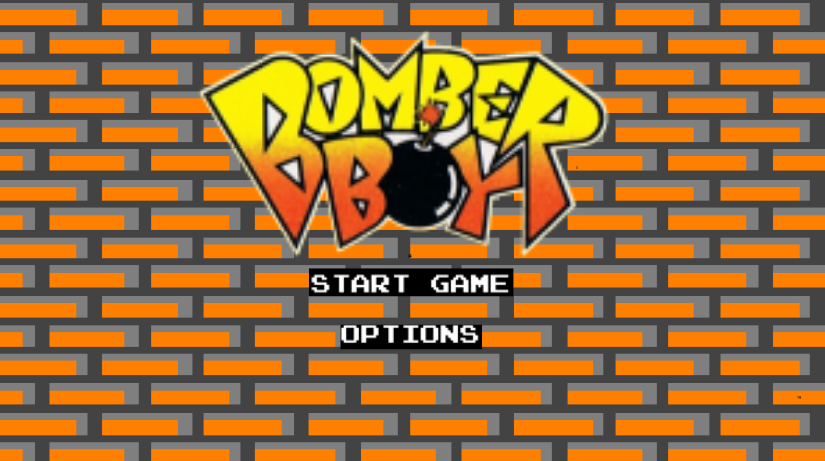
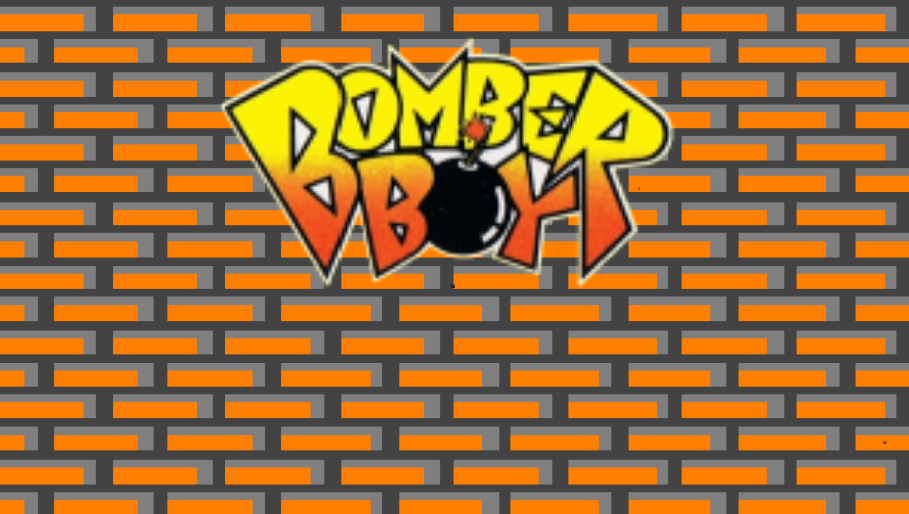
restart adicionado

diff --git a/PPO/jogo.js b/PPO/jogo.js
@@ -3,7 +3,7 @@ class jogo extends Phaser.Scene {
     constructor() {
         super("jogo");
     this.cursor;this.player;this.player1;this.player2;this.blocos;this.e=0;this.explosoes;this.bombas;this.anim;
-    this.caixas;this.PUV;this.PUB;this.PUE;this.cursor2={w:0,a:0,s:0,d:0,b:0};this.pontos1=0;this.pontos2=0;
+    this.caixas;this.PUV;this.PUB;this.PUE;this.pause;this.cursor2={w:0,a:0,s:0,d:0,b:0};this.pontos1=0;this.pontos2=0;
     this.mapa = new Array(13);
     for(var i=0;i<13;i++){
         this.mapa[i]= new Array(19);
@@ -19,6 +19,9 @@ class jogo extends Phaser.Scene {
     
 
     preload(){
+
+        game.scene.pause()
+
         this.load.image('tela','img/tela.jpg');
         this.load.spritesheet('personagem','img/dude.png',{
             frameWidth:32, frameHeight:42
@@ -38,6 +41,13 @@ class jogo extends Phaser.Scene {
         this.load.image('PUBomba','img/PUBomba.png');
         this.load.image('P1W','img/Player1 Wins.png');
         this.load.image('P2W','img/Player2 Wins.png');
+
+        this.load.path = './fontes/';
+        this.load.image('gamma', 'font.png');
+        this.load.json('gamma_json', 'gamma.json');
+    
+
+
     }
 
     create(){
@@ -52,6 +62,13 @@ class jogo extends Phaser.Scene {
         this.PUV = this.physics.add.staticGroup();
         this.PUE = this.physics.add.staticGroup();
         this.PUB = this.physics.add.staticGroup();
+
+        let config = this.cache.json.get('gamma_json');
+
+        this.cache.bitmapFont.add('gamma', Phaser.GameObjects.RetroFont.Parse(this, config));
+
+
+
         for(var i=0,y=26;i<13;i++){
             this.mapa[(y-26)/52][0]=1;
             this.blocos.create(26,y,'bloco');
@@ -186,6 +203,8 @@ class jogo extends Phaser.Scene {
     }
 
     update(){
+
+
         if(this.cursor.right.isDown && this.jogador2.vivo){
             this.player2.setVelocityX(this.jogador2.velocidade);
             this.player2.anims.play('right',true);
@@ -256,6 +275,9 @@ class jogo extends Phaser.Scene {
                 },2000);
             }
         }   
+
+        
+
     }
 
     hitBomb(a){
@@ -402,6 +424,11 @@ class jogo extends Phaser.Scene {
 
     morte1(p,e){
         this.add.image(494,338,'P2W');
+
+        this.helloButton = this.add.bitmapText(388, 400, "gamma", 'START GAME')
+        .setInteractive().on('pointerdown', () => {window.location.reload();});
+
+
         p.disableBody(true,true);
         this.jogador1.vivo=false;
         for(;this.jogador1.potencia>1;this.jogador1.potencia--){
@@ -435,6 +462,10 @@ class jogo extends Phaser.Scene {
 
     morte2(p,e){
         this.add.image(494,338,'P1W');
+        
+        this.helloButton = this.add.bitmapText(388, 400, "gamma", 'START GAME')
+        .setInteractive().on('pointerdown', () => {window.location.reload();});
+
         p.disableBody(true,true);
         this.jogador2.vivo=false;
         for(;this.jogador2.potencia>1;this.jogador2.potencia--){

diff --git a/PPO/telaInicial.js b/PPO/telaInicial.js
@@ -1,21 +1,25 @@
 
 class telaInicial extends Phaser.Scene{
 
-
-
 constructor(){
     super("telaInicial");
 }
 
 preload(){
+
     this.load.image("fundo", "telaInicial.png");
-    this.load.image("start", "start.png");
 
     this.load.audio("botaoClick", "audio/correctSound.mp3");
     this.load.audio("themeSong", "audio/FaketalesofSanFrancisko.wav");
+
+    this.load.path = './fontes/';
+    this.load.image('gamma', 'font.png');
+    this.load.json('gamma_json', 'gamma.json');
+
 } 
     
 create() {
+
 
     var audioConfig={
         delay: 0,
@@ -23,16 +27,24 @@ create() {
         loop: true
     }
 
+
     let soundSample = this.sound.add("botaoClick")
     let soundTrack = this.sound.add("themeSong")
-    
+    let config = this.cache.json.get('gamma_json');
+
     soundTrack.play(audioConfig);
 
+    this.cache.bitmapFont.add('gamma', Phaser.GameObjects.RetroFont.Parse(this, config));
+
     this.add.image(490, 338, "fundo");
-    this.helloButton = this.add.image(490, 390, "start")
+
+    this.botaoStart = this.add.bitmapText(388, 400, "gamma", 'START GAME')
     .setInteractive().on('pointerdown', () => { this.scene.start("jogo")
     soundSample.play(); soundTrack.stop(); });
- 
-  }
+
+    this.botaoStart.setFontSize(22);
+
+}
+
   
 }
